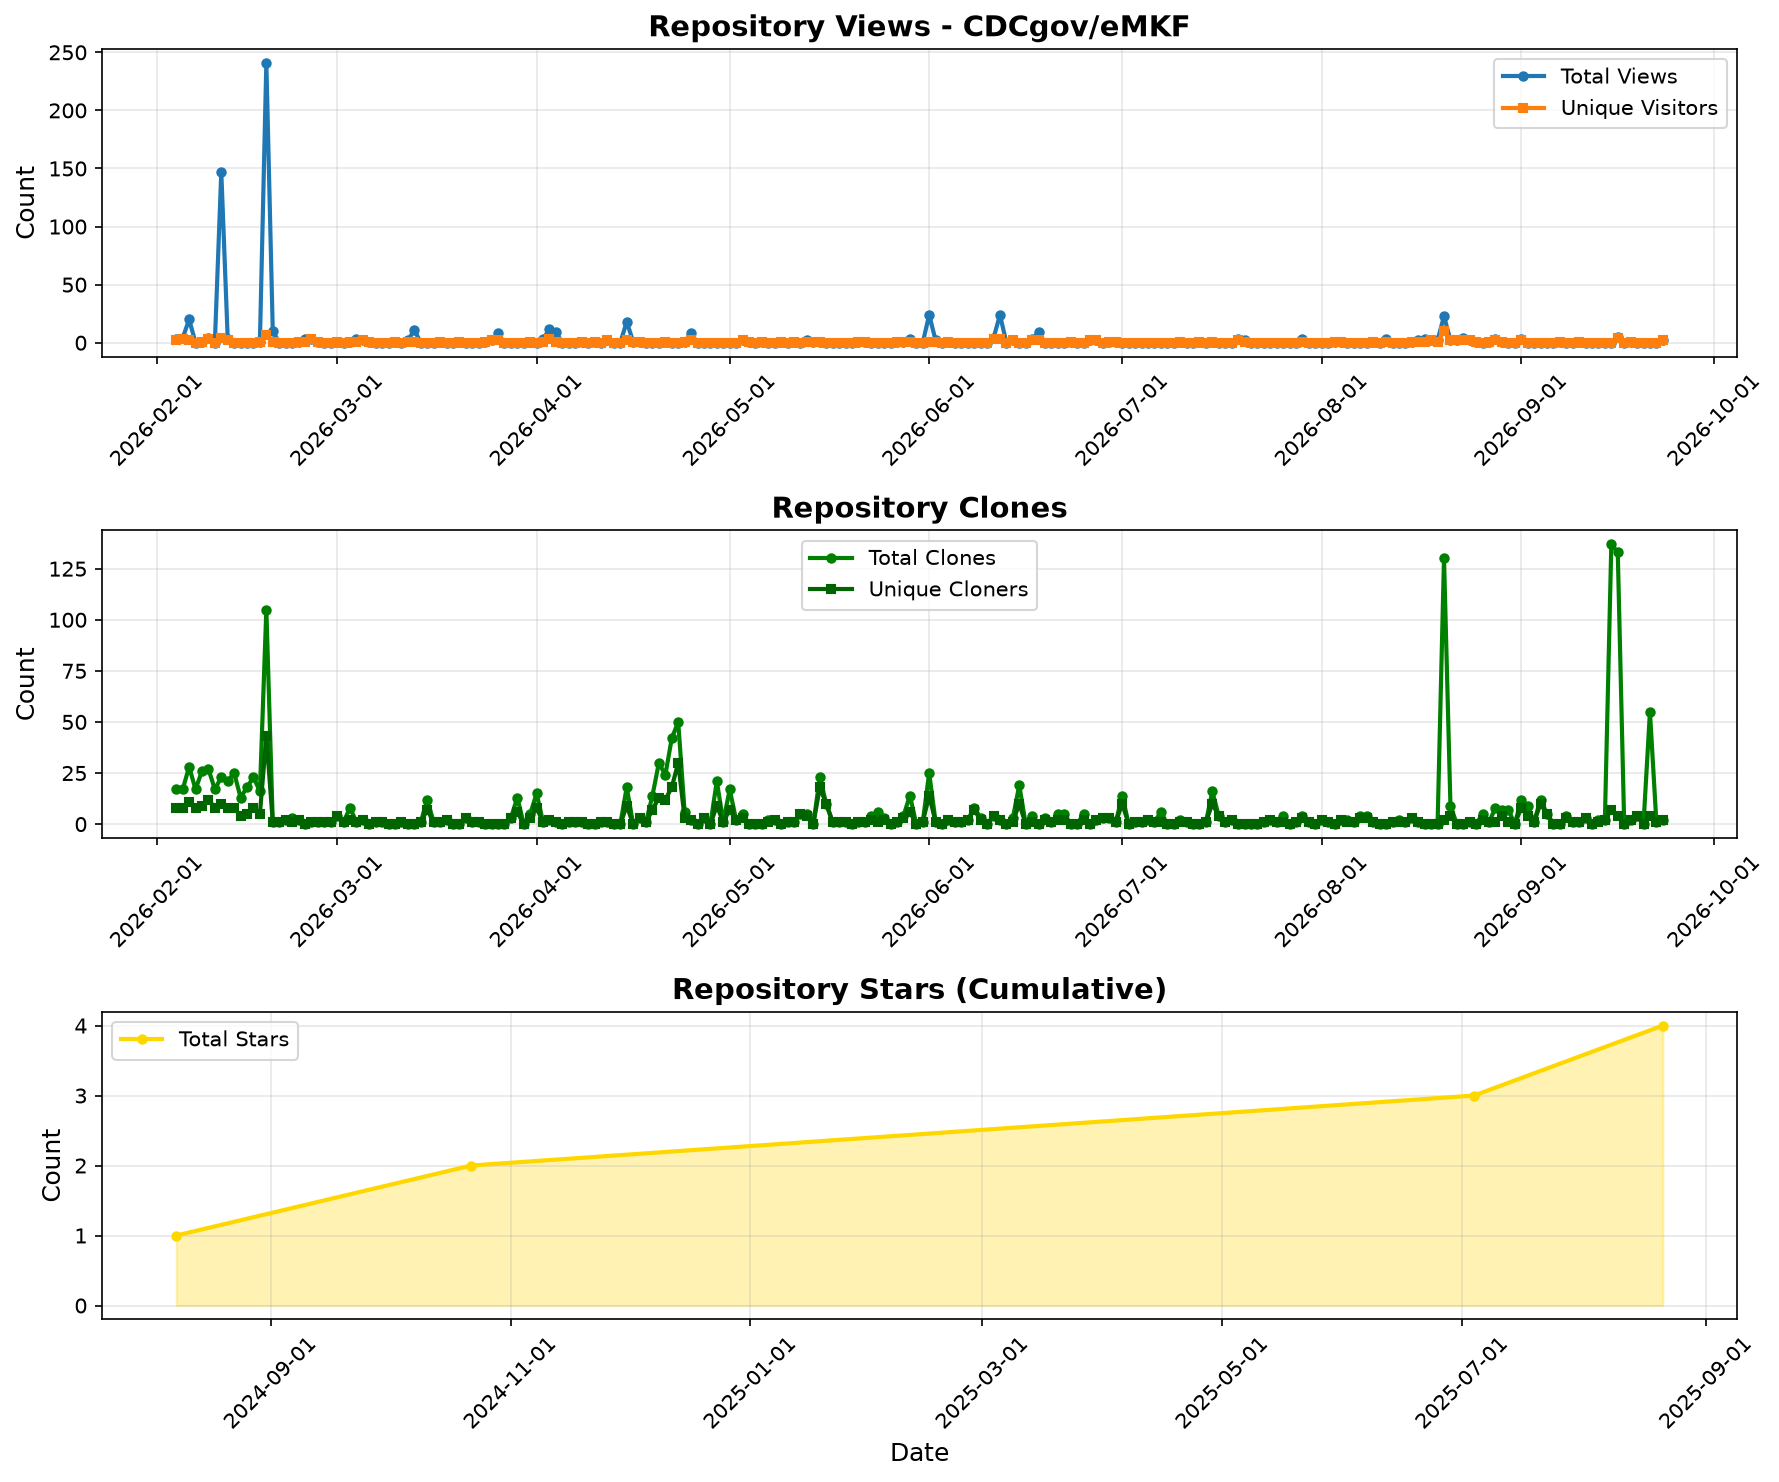
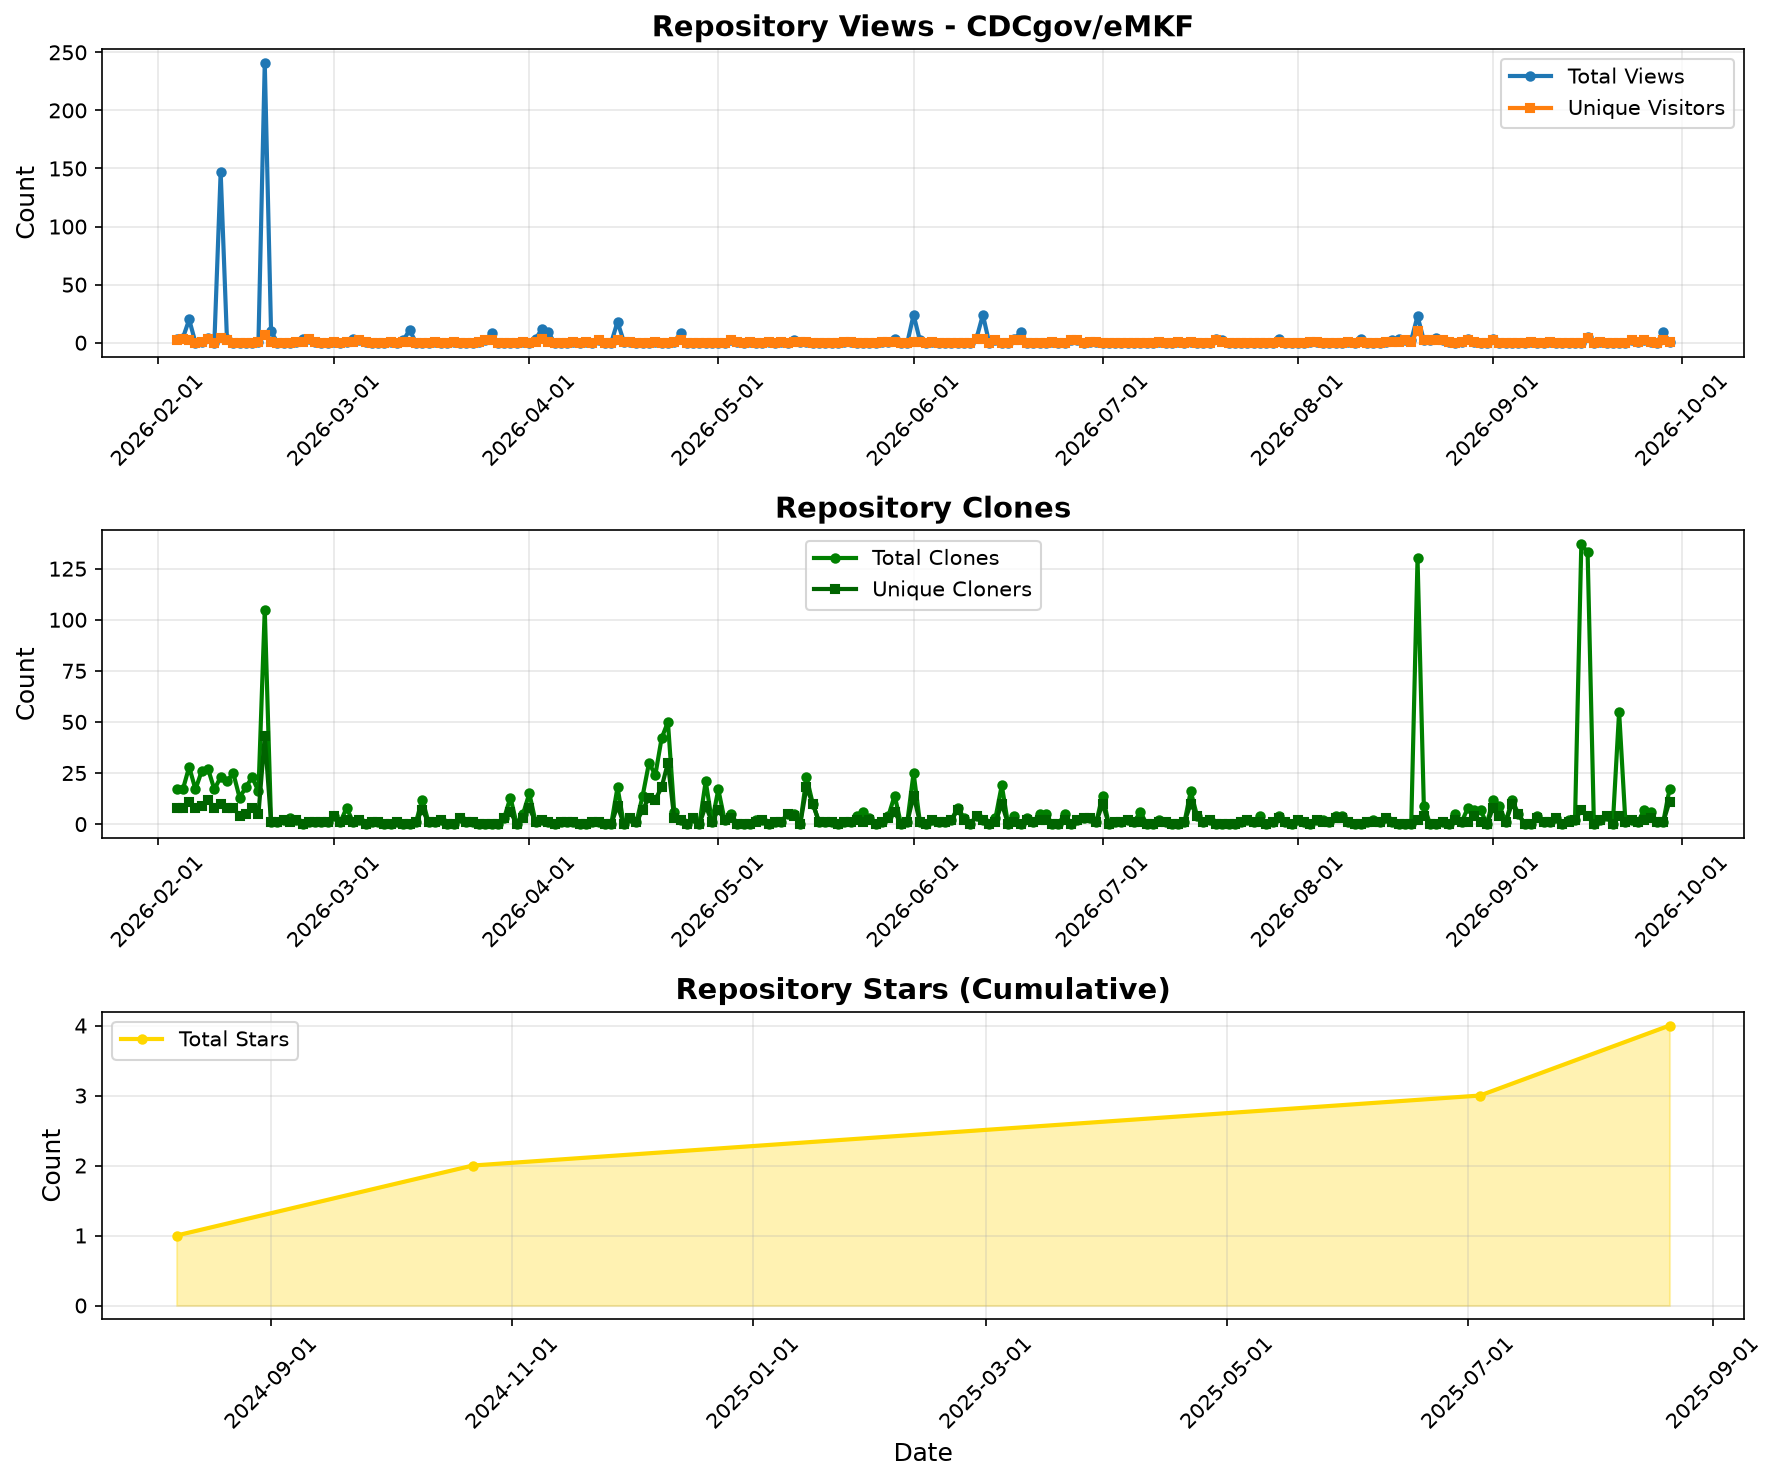
Update traffic stats [skip ci]

diff --git a/.traffic/README.md b/.traffic/README.md
@@ -1,6 +1,6 @@
 # Repository Traffic Statistics
 
-> Last updated: **September 29, 2026 at 03:08 UTC**
+> Last updated: **October 01, 2026 at 02:56 UTC**
 
 ## 📊 Traffic Overview
 
@@ -11,15 +11,15 @@
 ### Latest 14 Days
 | Metric | Total | Unique |
 |--------|-------|--------|
-| 👁 **Views** | 9 | 8 |
-| 📦 **Clones** | 342 | 31 |
+| 👁 **Views** | 22 | 14 |
+| 📦 **Clones** | 230 | 36 |
 | ⭐ **Stars** | 4 | - |
 
 ### All Time (Since Tracking Started)
 | Metric | Total | Unique | Data Points |
 |--------|-------|--------|-------------|
-| 👁 **Views** | 708 | 153 | 232 days |
-| 📦 **Clones** | 1,566 | 623 | 232 days |
+| 👁 **Views** | 722 | 160 | 238 days |
+| 📦 **Clones** | 1,599 | 642 | 238 days |
 | ⭐ **Stars** | 4 | - | 4 days |
 
 ## 📁 Available Files
